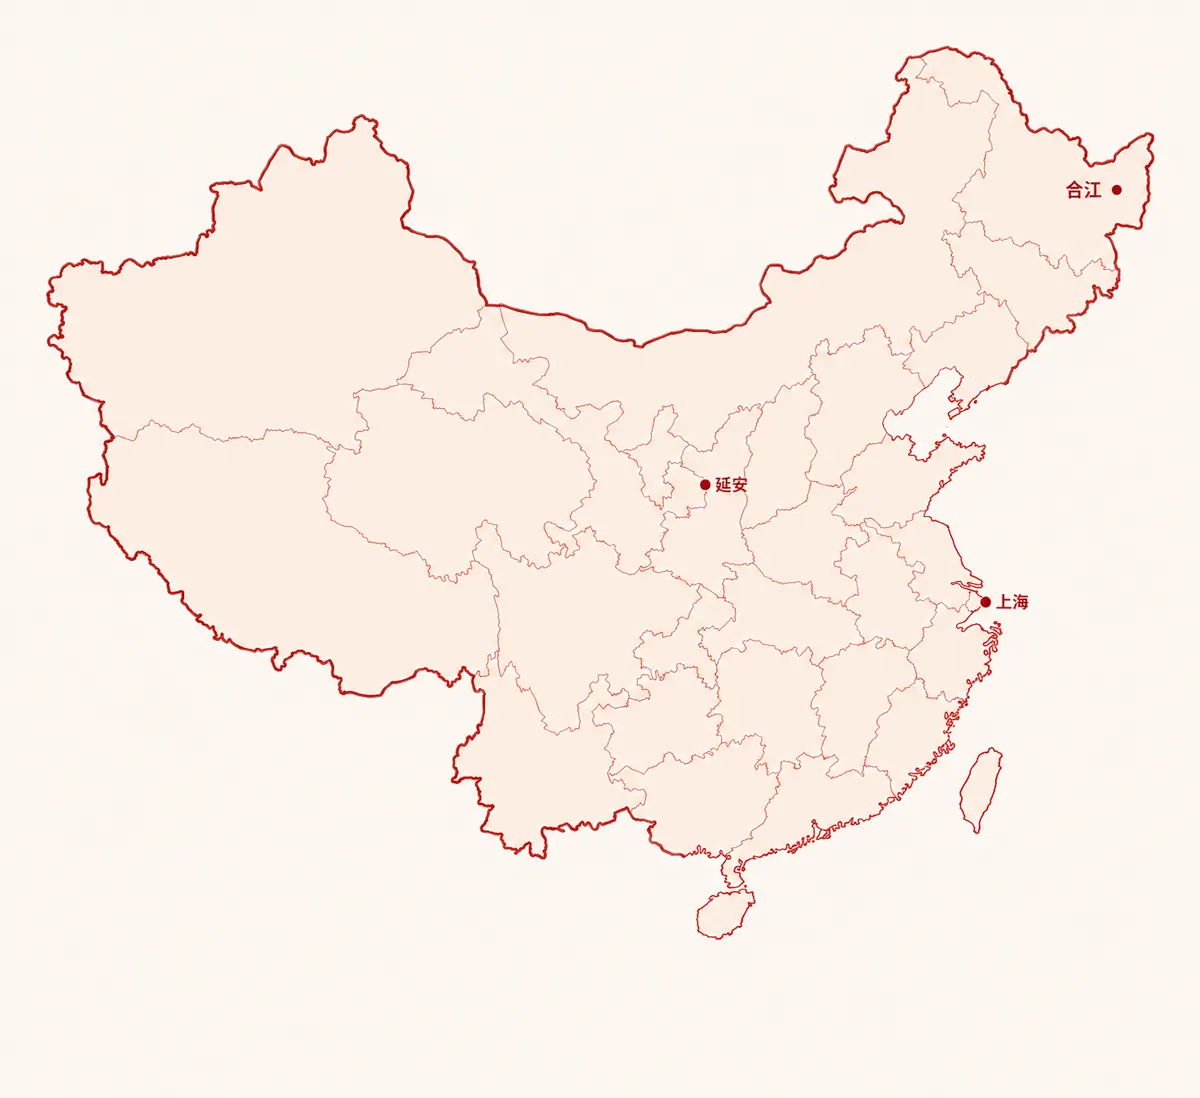
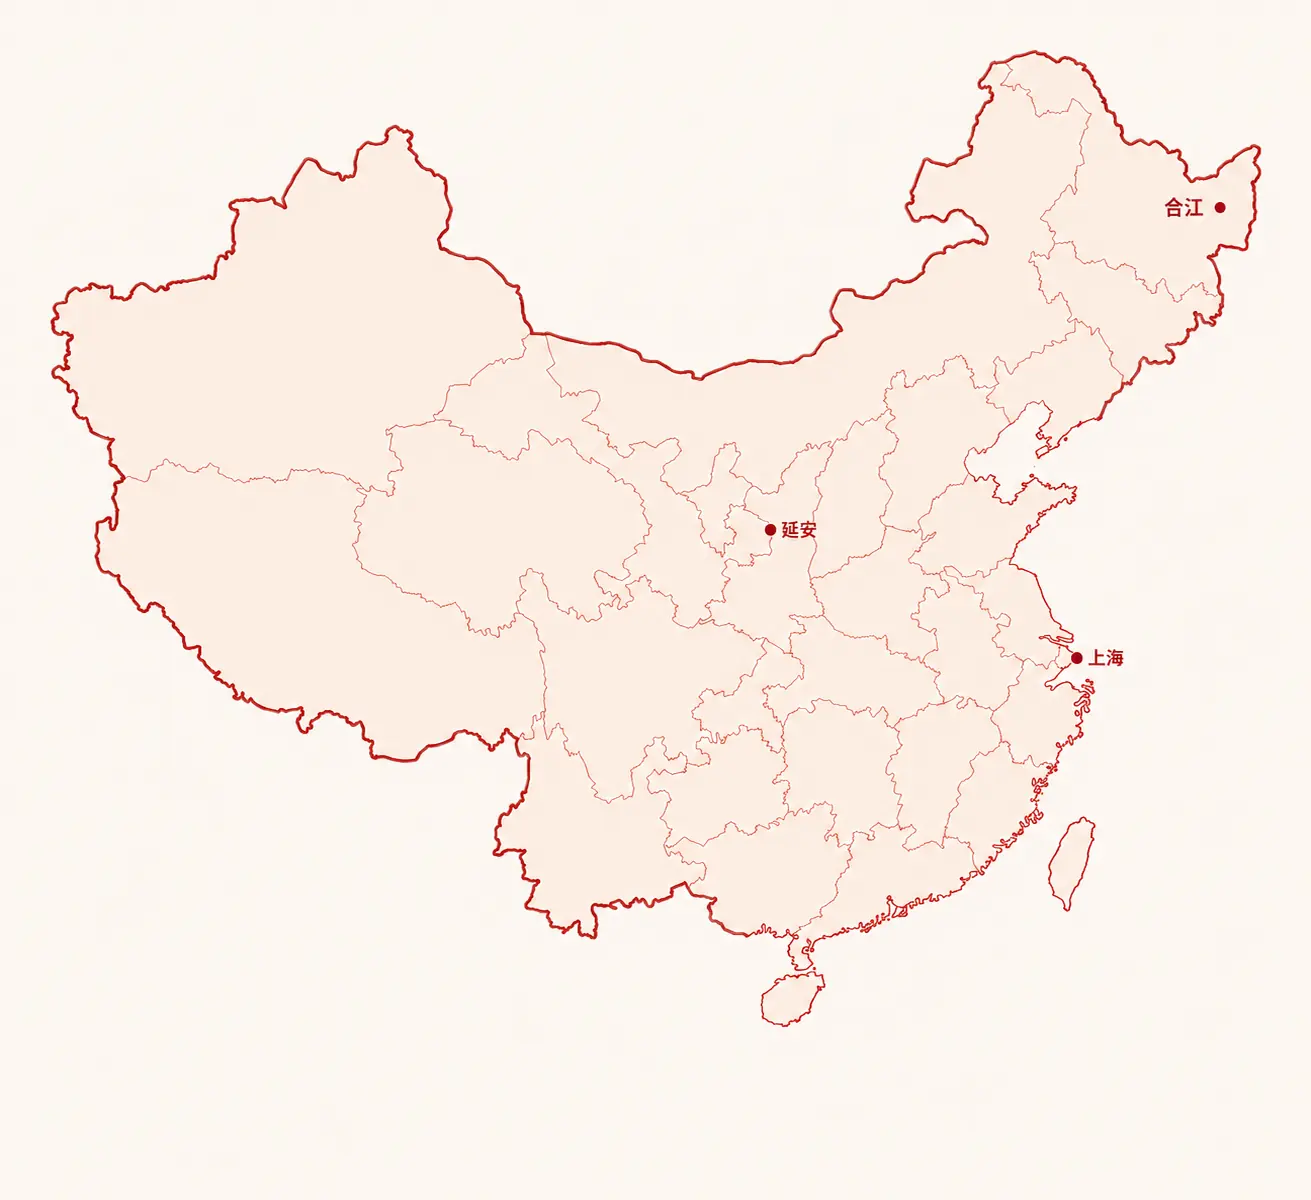
Match intro route coordinates to map image

Changed region(s): [[0.8017, 0.5264, 0.8633, 0.6193], [0.5858, 0.7741, 0.6167, 0.8051], [0.5858, 0.4335, 0.6167, 0.4645]]

diff --git a/index.html b/index.html
@@ -66,7 +66,7 @@
       right: clamp(96px, 11vw, 190px);
       top: 58%;
       width: min(740px, 56vw);
-      aspect-ratio: 1344 / 1195;
+      aspect-ratio: 1311 / 1200;
       transform: translateY(-50%);
       z-index: 0;
       pointer-events: none;
@@ -553,12 +553,12 @@
     <section class="intro" aria-label="开篇">
       <div class="intro-map" aria-hidden="true">
         <img src="https://cdn.jsdelivr.net/gh/machenggong593-dev/zhangwentian@gh-pages/assets/home-map.webp" alt="" decoding="async" fetchpriority="high" />
-        <svg viewBox="0 0 1344 1195" role="presentation" focusable="false">
-          <path class="intro-route-halo" d="M1107 669 C1028 635 908 588 770 529 C898 420 1042 306 1239 210" />
-          <path class="intro-route" d="M1107 669 C1028 635 908 588 770 529 C898 420 1042 306 1239 210" />
-          <circle class="route-point" cx="1107" cy="669" r="13" />
+        <svg viewBox="0 0 1311 1200" role="presentation" focusable="false">
+          <path class="intro-route-halo" d="M1076 658 C1015 630 908 585 770 529 C895 416 1035 302 1220 207" />
+          <path class="intro-route" d="M1076 658 C1015 630 908 585 770 529 C895 416 1035 302 1220 207" />
+          <circle class="route-point" cx="1076" cy="658" r="13" />
           <circle class="route-point" cx="770" cy="529" r="13" />
-          <circle class="route-point" cx="1239" cy="210" r="13" />
+          <circle class="route-point" cx="1220" cy="207" r="13" />
         </svg>
       </div>
       <div class="intro-inner">
